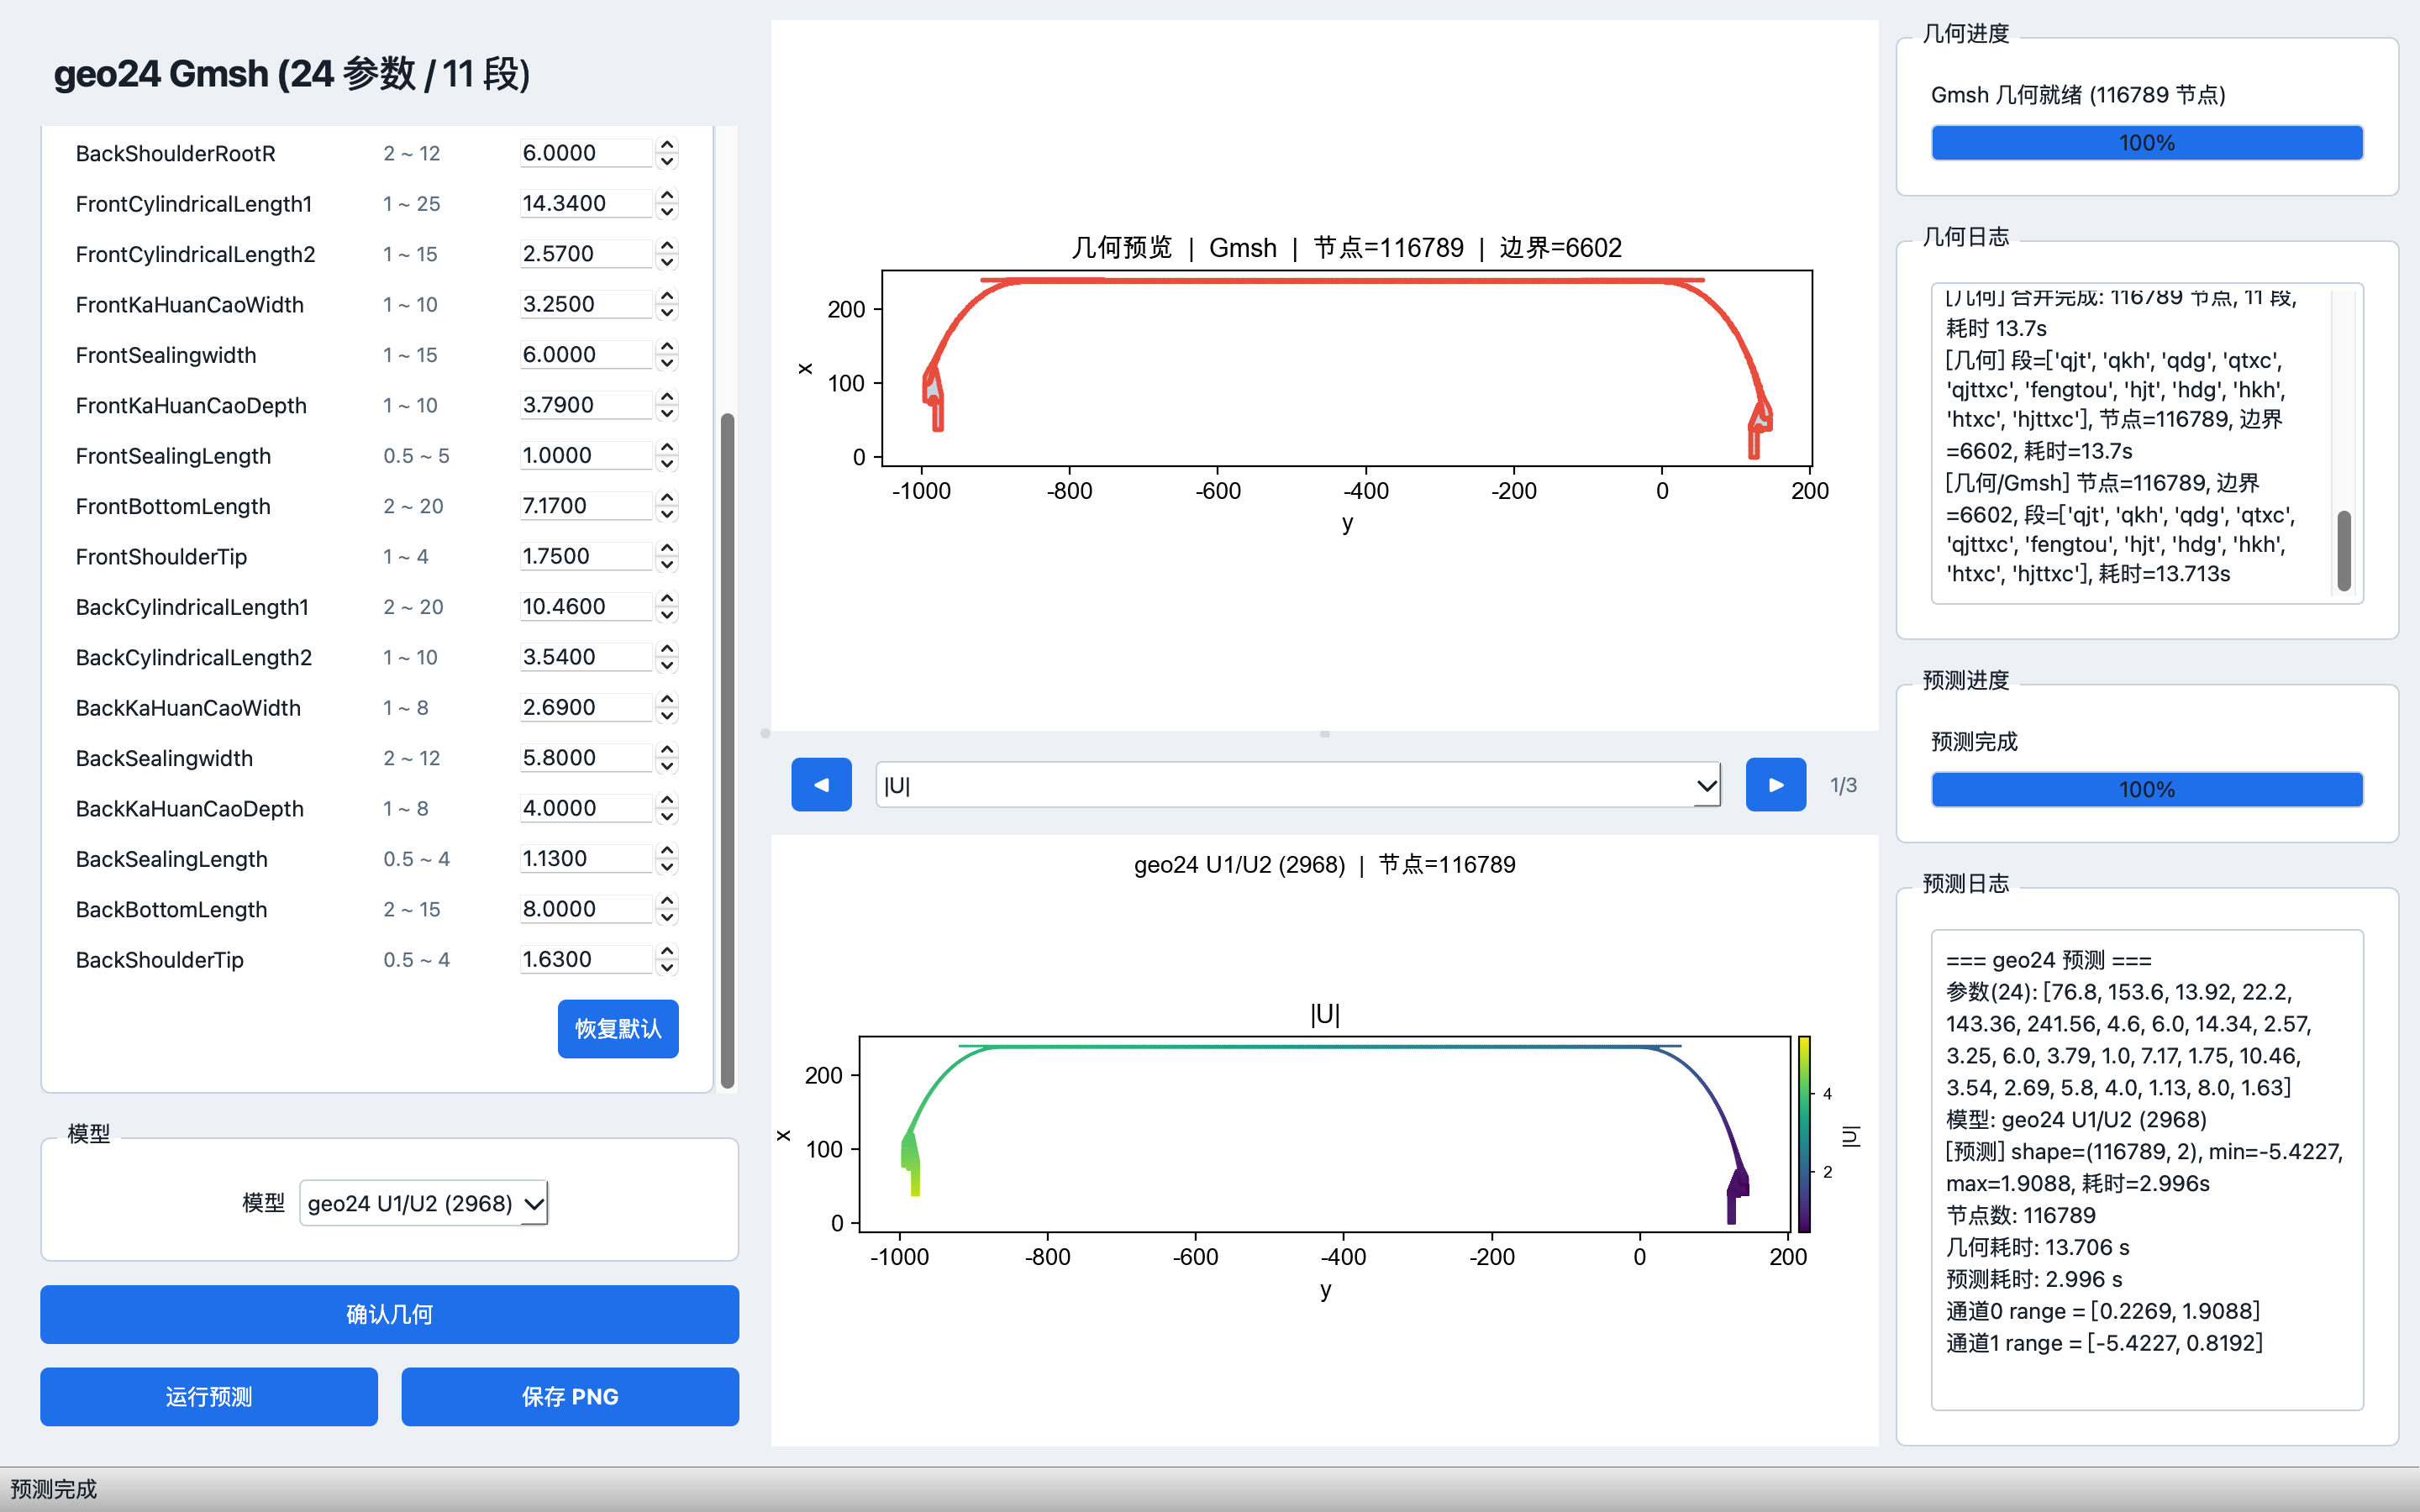
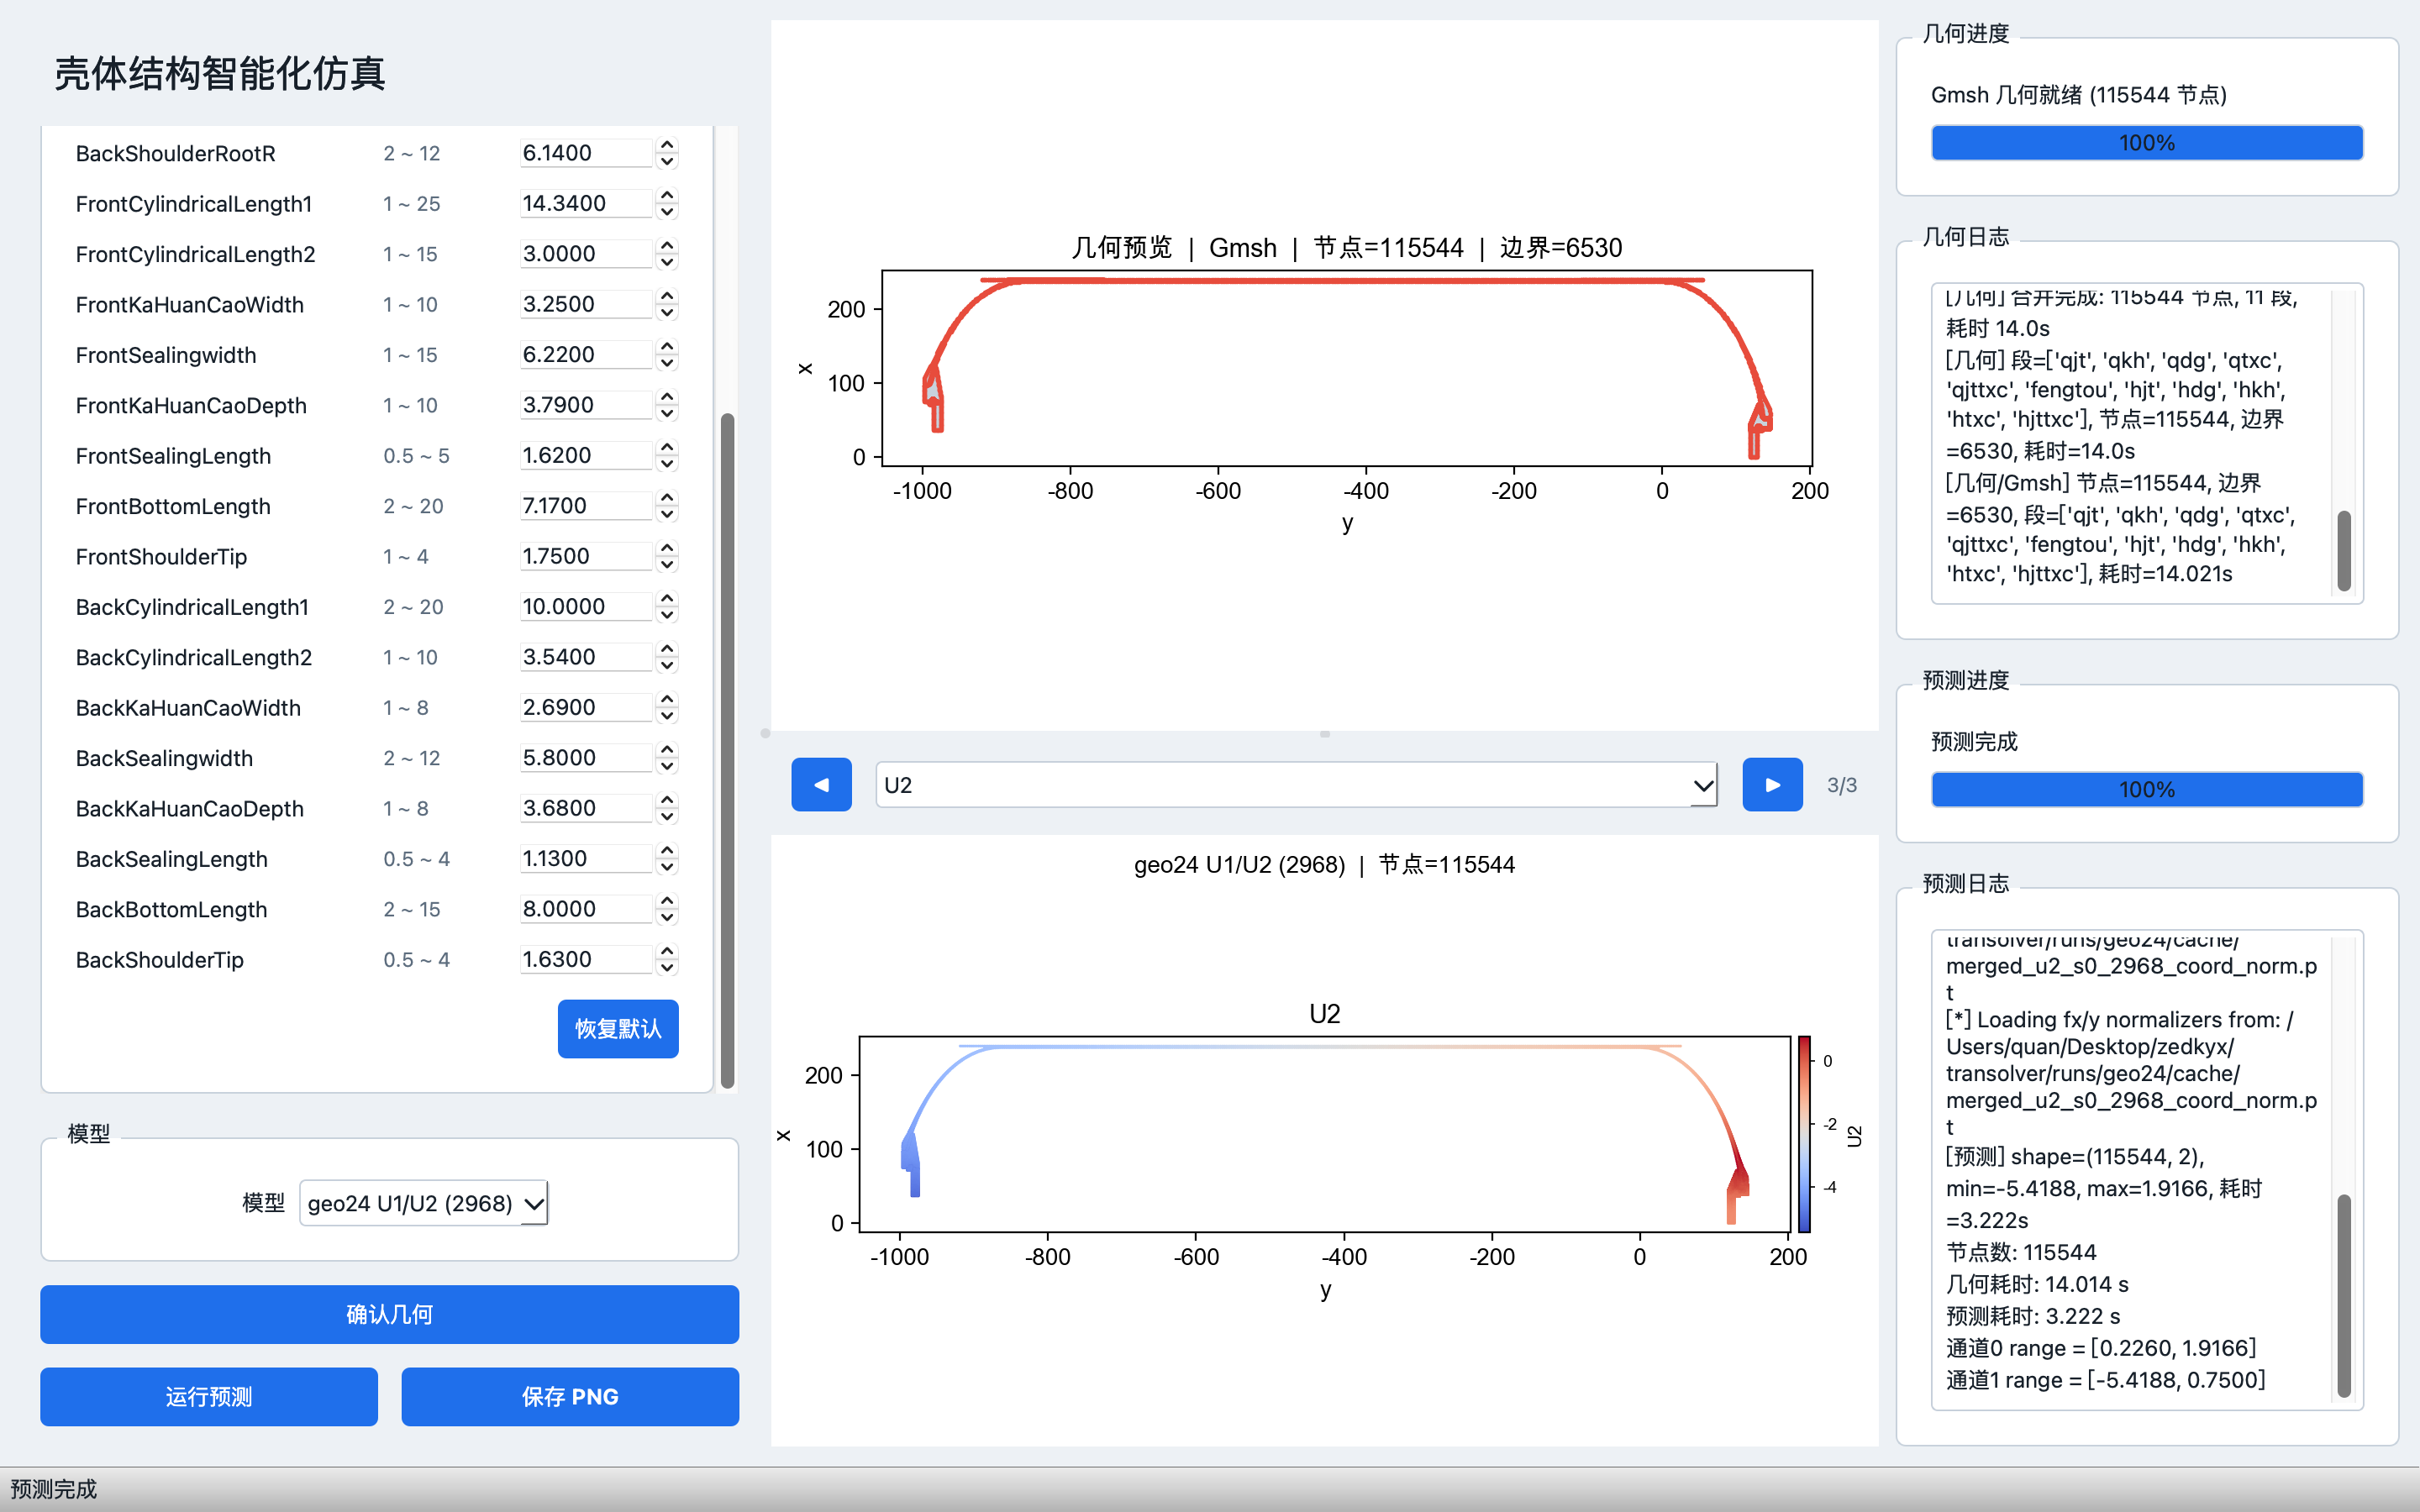
Add files via upload

diff --git a/projects/index.html b/projects/index.html
@@ -1,4 +1,4 @@
-<!DOCTYPE html><html lang="zh-CN" class="scroll-smooth"><head><meta charSet="utf-8"/><meta name="viewport" content="width=device-width, initial-scale=1"/><link rel="preload" as="image" href="/shell-joint-poster.png"/><link rel="stylesheet" href="/_next/static/css/355703b89dbe7d7e.css" data-precedence="next"/><link rel="preload" as="script" fetchPriority="low" href="/_next/static/chunks/webpack-679b75d1c4c2027c.js"/><script src="/_next/static/chunks/4bd1b696-70b6d399998de86a.js" async=""></script><script src="/_next/static/chunks/684-50096e198fb40285.js" async=""></script><script src="/_next/static/chunks/main-app-3df9396c2a6abd47.js" async=""></script><script src="/_next/static/chunks/161-c92285856b08f5b4.js" async=""></script><script src="/_next/static/chunks/874-196dbf0660d69360.js" async=""></script><script src="/_next/static/chunks/560-83a075b4e219aa9a.js" async=""></script><script src="/_next/static/chunks/app/layout-b85c94e6c56b12b9.js" async=""></script><script src="/_next/static/chunks/12-4b59b9520356f054.js" async=""></script><script src="/_next/static/chunks/748-94fdc3f79689ac04.js" async=""></script><script src="/_next/static/chunks/app/%5Bslug%5D/page-94b266f9e283fa49.js" async=""></script><link rel="icon" href="/favicon.svg" type="image/svg+xml"/><link rel="dns-prefetch" href="https://google-fonts.jialeliu.com"/><link rel="preconnect" href="https://google-fonts.jialeliu.com" crossorigin=""/><link rel="preload" as="style" href="https://google-fonts.jialeliu.com/css2?family=Inter:wght@300;400;500;600;700&amp;family=Crimson+Text:ital,wght@0,400;0,600;1,400&amp;display=swap"/><link rel="stylesheet" id="gfonts-css" href="https://google-fonts.jialeliu.com/css2?family=Inter:wght@300;400;500;600;700&amp;family=Crimson+Text:ital,wght@0,400;0,600;1,400&amp;display=swap" media="print"/><script>
+<!DOCTYPE html><html lang="zh-CN" class="scroll-smooth"><head><meta charSet="utf-8"/><meta name="viewport" content="width=device-width, initial-scale=1"/><link rel="stylesheet" href="/_next/static/css/355703b89dbe7d7e.css" data-precedence="next"/><link rel="preload" as="script" fetchPriority="low" href="/_next/static/chunks/webpack-679b75d1c4c2027c.js"/><script src="/_next/static/chunks/4bd1b696-70b6d399998de86a.js" async=""></script><script src="/_next/static/chunks/684-50096e198fb40285.js" async=""></script><script src="/_next/static/chunks/main-app-3df9396c2a6abd47.js" async=""></script><script src="/_next/static/chunks/161-c92285856b08f5b4.js" async=""></script><script src="/_next/static/chunks/874-196dbf0660d69360.js" async=""></script><script src="/_next/static/chunks/560-83a075b4e219aa9a.js" async=""></script><script src="/_next/static/chunks/app/layout-b85c94e6c56b12b9.js" async=""></script><script src="/_next/static/chunks/12-4b59b9520356f054.js" async=""></script><script src="/_next/static/chunks/748-94fdc3f79689ac04.js" async=""></script><script src="/_next/static/chunks/app/%5Bslug%5D/page-94b266f9e283fa49.js" async=""></script><link rel="icon" href="/favicon.svg" type="image/svg+xml"/><link rel="dns-prefetch" href="https://google-fonts.jialeliu.com"/><link rel="preconnect" href="https://google-fonts.jialeliu.com" crossorigin=""/><link rel="preload" as="style" href="https://google-fonts.jialeliu.com/css2?family=Inter:wght@300;400;500;600;700&amp;family=Crimson+Text:ital,wght@0,400;0,600;1,400&amp;display=swap"/><link rel="stylesheet" id="gfonts-css" href="https://google-fonts.jialeliu.com/css2?family=Inter:wght@300;400;500;600;700&amp;family=Crimson+Text:ital,wght@0,400;0,600;1,400&amp;display=swap" media="print"/><script>
               (function(){
                 var l = document.getElementById('gfonts-css');
                 if (!l) return;
@@ -21,7 +21,7 @@
                 root.classList.add('light');
                 root.setAttribute('data-theme', 'light');
               }
-            </script><title>项目 | 翟郁曦</title><meta name="description" content="研究相关的代码实现与可视化成果。"/><meta name="author" content="翟郁曦"/><meta name="keywords" content="翟郁曦,流体力学,科学机器学习,上海大学 · 力学与工程科学学院"/><meta name="creator" content="翟郁曦"/><meta name="publisher" content="翟郁曦"/><meta property="og:title" content="翟郁曦"/><meta property="og:description" content="上海大学流体力学硕士研究生，研究方向为计算流体力学与科学机器学习。"/><meta property="og:site_name" content="翟郁曦 的个人主页"/><meta property="og:locale" content="zh_CN"/><meta property="og:type" content="website"/><meta name="twitter:card" content="summary"/><meta name="twitter:title" content="翟郁曦"/><meta name="twitter:description" content="上海大学流体力学硕士研究生，研究方向为计算流体力学与科学机器学习。"/><link rel="icon" href="/favicon.svg"/><script>document.querySelectorAll('body link[rel="icon"], body link[rel="apple-touch-icon"]').forEach(el => document.head.appendChild(el))</script><script src="/_next/static/chunks/polyfills-42372ed130431b0a.js" noModule=""></script></head><body class="font-sans antialiased"><nav class="fixed top-0 left-0 right-0 z-50" data-headlessui-state=""><div class="transition-all duration-300 ease-out bg-transparent" style="transform:translateY(-100px)"><div class="max-w-7xl mx-auto px-4 sm:px-6 lg:px-8"><div class="flex justify-between items-center h-16 lg:h-20"><div class="flex-shrink-0" tabindex="0"><a class="text-xl lg:text-2xl font-serif font-semibold text-primary hover:text-accent transition-colors duration-200" href="/">翟郁曦</a></div><div class="hidden lg:block"><div class="ml-10 flex items-center space-x-8"><div class="flex items-baseline space-x-8"><a class="relative px-3 py-2 text-sm font-medium transition-all duration-200 rounded hover:bg-accent/10 hover:shadow-sm text-neutral-600 hover:text-primary" href="/"><span class="relative z-10">关于</span></a><a class="relative px-3 py-2 text-sm font-medium transition-all duration-200 rounded hover:bg-accent/10 hover:shadow-sm text-primary" href="/projects/"><span class="relative z-10">项目</span><div class="absolute inset-0 bg-accent/10 rounded-lg"></div></a><a class="relative px-3 py-2 text-sm font-medium transition-all duration-200 rounded hover:bg-accent/10 hover:shadow-sm text-neutral-600 hover:text-primary" href="/cv/"><span class="relative z-10">简历</span></a></div><div class="flex items-center justify-center w-10 h-10 rounded-lg border border-neutral-200 dark:border-[rgba(148,163,184,0.24)] bg-background dark:bg-neutral-800"><div class="w-4 h-4 rounded-full bg-neutral-300 animate-pulse"></div></div></div></div><div class="lg:hidden flex items-center space-x-2"><div class="flex items-center justify-center w-10 h-10 rounded-lg border border-neutral-200 dark:border-[rgba(148,163,184,0.24)] bg-background dark:bg-neutral-800"><div class="w-4 h-4 rounded-full bg-neutral-300 animate-pulse"></div></div><button class="inline-flex items-center justify-center p-2 rounded-md text-neutral-600 hover:text-primary hover:bg-neutral-100 dark:hover:bg-neutral-800 focus:outline-none focus:ring-2 focus:ring-inset focus:ring-accent transition-colors duration-200" id="headlessui-disclosure-button-«R5pdb»" type="button" aria-expanded="false" data-headlessui-state=""><span class="sr-only">Open main menu</span><div><svg xmlns="http://www.w3.org/2000/svg" fill="none" viewBox="0 0 24 24" stroke-width="1.5" stroke="currentColor" aria-hidden="true" data-slot="icon" class="block h-6 w-6"><path stroke-linecap="round" stroke-linejoin="round" d="M3.75 6.75h16.5M3.75 12h16.5m-16.5 5.25h16.5"></path></svg></div></button></div></div></div></div></nav><main class="min-h-screen pt-16 lg:pt-20"><div class="max-w-4xl mx-auto px-4 sm:px-6 lg:px-8 py-12"><div style="opacity:0;transform:translateY(20px)"><div class="mb-8"><h1 class="text-4xl font-serif font-bold text-primary mb-4">项目</h1><p class="text-lg text-neutral-600 dark:text-neutral-500 max-w-2xl">研究相关的代码实现与可视化成果。</p></div><div class="grid gap-6"><div class="bg-white dark:bg-neutral-900 p-6 rounded-xl shadow-sm border border-neutral-200 dark:border-neutral-800 hover:shadow-lg transition-all duration-200 hover:scale-[1.01]" style="opacity:0;transform:translateY(20px)"><div class="flex justify-between items-start mb-2"><h3 class="text-xl font-semibold text-primary">Transolver Shell-Joint (Geo-24)</h3><span class="text-sm text-neutral-500 font-medium bg-neutral-100 dark:bg-neutral-800 px-2 py-1 rounded">2025 – 至今</span></div><p class="text-base text-accent font-medium mb-3">壳体结构智能化仿真（Geo-24 · 24 参数）</p><div class="mb-4 rounded-lg overflow-hidden border border-neutral-200 dark:border-neutral-700"><p class="px-3 py-2 text-sm font-medium text-primary bg-neutral-50 dark:bg-neutral-800/50 border-b border-neutral-200 dark:border-neutral-700">仿真界面</p><img src="/shell-joint-poster.png" alt="Transolver Shell-Joint (Geo-24) 界面" class="w-full object-contain bg-white"/></div><div class="mb-4 last:mb-0"><p class="text-sm font-medium text-primary mb-2">前接头：位移 / Mises / 主应力预测</p><div class="rounded-lg overflow-hidden bg-neutral-100 dark:bg-neutral-800 border border-neutral-200 dark:border-neutral-700"><video src="/shell-joint-front.mp4" controls="" playsInline="" preload="none" class="w-full aspect-video object-contain bg-black">您的浏览器不支持视频播放。</video><p class="px-3 py-2 text-xs text-neutral-500 border-t border-neutral-200 dark:border-neutral-700">点击播放按钮开始加载。</p></div></div><div class="mb-4 last:mb-0"><p class="text-sm font-medium text-primary mb-2">壳体全部件：位移场展示</p><div class="rounded-lg overflow-hidden bg-neutral-100 dark:bg-neutral-800 border border-neutral-200 dark:border-neutral-700"><video src="/shell-assembly-demo.mp4" controls="" playsInline="" preload="none" class="w-full aspect-video object-contain bg-black">您的浏览器不支持视频播放。</video><p class="px-3 py-2 text-xs text-neutral-500 border-t border-neutral-200 dark:border-neutral-700">点击播放按钮开始加载。</p></div></div><div class="text-base text-neutral-600 dark:text-neutral-500 leading-relaxed"><p class="mb-3 last:mb-0">基于 <strong class="font-semibold text-primary">Transolver</strong> 族神经算子，面向 <strong class="font-semibold text-primary">Geo-24</strong> 轴对称壳体接头（24 参数 / 11 段）的多物理场响应预测与可视化演示。</p>
+            </script><title>项目 | 翟郁曦</title><meta name="description" content="研究相关的代码实现与可视化成果。"/><meta name="author" content="翟郁曦"/><meta name="keywords" content="翟郁曦,流体力学,科学机器学习,上海大学 · 力学与工程科学学院"/><meta name="creator" content="翟郁曦"/><meta name="publisher" content="翟郁曦"/><meta property="og:title" content="翟郁曦"/><meta property="og:description" content="上海大学流体力学硕士研究生，研究方向为计算流体力学与科学机器学习。"/><meta property="og:site_name" content="翟郁曦 的个人主页"/><meta property="og:locale" content="zh_CN"/><meta property="og:type" content="website"/><meta name="twitter:card" content="summary"/><meta name="twitter:title" content="翟郁曦"/><meta name="twitter:description" content="上海大学流体力学硕士研究生，研究方向为计算流体力学与科学机器学习。"/><link rel="icon" href="/favicon.svg"/><script>document.querySelectorAll('body link[rel="icon"], body link[rel="apple-touch-icon"]').forEach(el => document.head.appendChild(el))</script><script src="/_next/static/chunks/polyfills-42372ed130431b0a.js" noModule=""></script></head><body class="font-sans antialiased"><nav class="fixed top-0 left-0 right-0 z-50" data-headlessui-state=""><div class="transition-all duration-300 ease-out bg-transparent" style="transform:translateY(-100px)"><div class="max-w-7xl mx-auto px-4 sm:px-6 lg:px-8"><div class="flex justify-between items-center h-16 lg:h-20"><div class="flex-shrink-0" tabindex="0"><a class="text-xl lg:text-2xl font-serif font-semibold text-primary hover:text-accent transition-colors duration-200" href="/">翟郁曦</a></div><div class="hidden lg:block"><div class="ml-10 flex items-center space-x-8"><div class="flex items-baseline space-x-8"><a class="relative px-3 py-2 text-sm font-medium transition-all duration-200 rounded hover:bg-accent/10 hover:shadow-sm text-neutral-600 hover:text-primary" href="/"><span class="relative z-10">关于</span></a><a class="relative px-3 py-2 text-sm font-medium transition-all duration-200 rounded hover:bg-accent/10 hover:shadow-sm text-primary" href="/projects/"><span class="relative z-10">项目</span><div class="absolute inset-0 bg-accent/10 rounded-lg"></div></a><a class="relative px-3 py-2 text-sm font-medium transition-all duration-200 rounded hover:bg-accent/10 hover:shadow-sm text-neutral-600 hover:text-primary" href="/cv/"><span class="relative z-10">简历</span></a></div><div class="flex items-center justify-center w-10 h-10 rounded-lg border border-neutral-200 dark:border-[rgba(148,163,184,0.24)] bg-background dark:bg-neutral-800"><div class="w-4 h-4 rounded-full bg-neutral-300 animate-pulse"></div></div></div></div><div class="lg:hidden flex items-center space-x-2"><div class="flex items-center justify-center w-10 h-10 rounded-lg border border-neutral-200 dark:border-[rgba(148,163,184,0.24)] bg-background dark:bg-neutral-800"><div class="w-4 h-4 rounded-full bg-neutral-300 animate-pulse"></div></div><button class="inline-flex items-center justify-center p-2 rounded-md text-neutral-600 hover:text-primary hover:bg-neutral-100 dark:hover:bg-neutral-800 focus:outline-none focus:ring-2 focus:ring-inset focus:ring-accent transition-colors duration-200" id="headlessui-disclosure-button-«R5pdb»" type="button" aria-expanded="false" data-headlessui-state=""><span class="sr-only">Open main menu</span><div><svg xmlns="http://www.w3.org/2000/svg" fill="none" viewBox="0 0 24 24" stroke-width="1.5" stroke="currentColor" aria-hidden="true" data-slot="icon" class="block h-6 w-6"><path stroke-linecap="round" stroke-linejoin="round" d="M3.75 6.75h16.5M3.75 12h16.5m-16.5 5.25h16.5"></path></svg></div></button></div></div></div></div></nav><main class="min-h-screen pt-16 lg:pt-20"><div class="max-w-4xl mx-auto px-4 sm:px-6 lg:px-8 py-12"><div style="opacity:0;transform:translateY(20px)"><div class="mb-8"><h1 class="text-4xl font-serif font-bold text-primary mb-4">项目</h1><p class="text-lg text-neutral-600 dark:text-neutral-500 max-w-2xl">研究相关的代码实现与可视化成果。</p></div><div class="grid gap-6"><div class="bg-white dark:bg-neutral-900 p-6 rounded-xl shadow-sm border border-neutral-200 dark:border-neutral-800 hover:shadow-lg transition-all duration-200 hover:scale-[1.01]" style="opacity:0;transform:translateY(20px)"><div class="flex justify-between items-start mb-2"><h3 class="text-xl font-semibold text-primary">Transolver Shell-Joint (Geo-24)</h3><span class="text-sm text-neutral-500 font-medium bg-neutral-100 dark:bg-neutral-800 px-2 py-1 rounded">2025 – 至今</span></div><p class="text-base text-accent font-medium mb-3">壳体结构智能化仿真（Geo-24 · 24 参数）</p><div class="mb-4 last:mb-0"><p class="text-sm font-medium text-primary mb-2">前接头：位移 / Mises / 主应力预测</p><div class="rounded-lg overflow-hidden bg-neutral-100 dark:bg-neutral-800 border border-neutral-200 dark:border-neutral-700"><video src="/shell-joint-front.mp4" controls="" playsInline="" preload="none" class="w-full aspect-video object-contain bg-black">您的浏览器不支持视频播放。</video><p class="px-3 py-2 text-xs text-neutral-500 border-t border-neutral-200 dark:border-neutral-700">点击播放按钮开始加载。</p></div></div><div class="mb-4 last:mb-0"><p class="text-sm font-medium text-primary mb-2">壳体全部件：位移场展示</p><div class="rounded-lg overflow-hidden bg-neutral-100 dark:bg-neutral-800 border border-neutral-200 dark:border-neutral-700"><video src="/shell-assembly-demo.mp4" poster="/shell-joint-poster.png" controls="" playsInline="" preload="none" class="w-full aspect-video object-contain bg-black">您的浏览器不支持视频播放。</video><p class="px-3 py-2 text-xs text-neutral-500 border-t border-neutral-200 dark:border-neutral-700">点击播放按钮开始加载。</p></div></div><div class="text-base text-neutral-600 dark:text-neutral-500 leading-relaxed"><p class="mb-3 last:mb-0">基于 <strong class="font-semibold text-primary">Transolver</strong> 族神经算子，面向 <strong class="font-semibold text-primary">Geo-24</strong> 轴对称壳体接头（24 参数 / 11 段）的多物理场响应预测与可视化演示。</p>
 <p class="mb-3 last:mb-0"><strong class="font-semibold text-primary">主要工作：</strong></p>
 <ul class="list-disc list-inside mb-3 space-y-1 ml-2">
 <li>前接头区域：位移分量、Mises 应力与主应力均可快速预测</li>
@@ -29,4 +29,4 @@
 <li>结合几何参数与符号距离函数（SDF）进行几何感知编码</li>
 <li>采用分量独立输出结构（COIN）缓解多分量联合预测中的共享参数干扰</li>
 </ul>
-<p class="mb-3 last:mb-0"><strong class="font-semibold text-primary">技术栈：</strong> Python · PyTorch · Transolver · Gmsh · PyQt · 遗传算法</p></div><div class="flex flex-wrap items-center gap-2 mt-4"><span class="text-xs text-neutral-500 bg-neutral-50 dark:bg-neutral-800/50 px-2 py-1 rounded border border-neutral-100 dark:border-neutral-800">神经算子</span><span class="text-xs text-neutral-500 bg-neutral-50 dark:bg-neutral-800/50 px-2 py-1 rounded border border-neutral-100 dark:border-neutral-800">壳体结构</span><span class="text-xs text-neutral-500 bg-neutral-50 dark:bg-neutral-800/50 px-2 py-1 rounded border border-neutral-100 dark:border-neutral-800">Geo-24</span><span class="text-xs text-neutral-500 bg-neutral-50 dark:bg-neutral-800/50 px-2 py-1 rounded border border-neutral-100 dark:border-neutral-800">多物理场</span><span class="text-xs text-neutral-500 bg-neutral-50 dark:bg-neutral-800/50 px-2 py-1 rounded border border-neutral-100 dark:border-neutral-800">PyTorch</span><span class="text-xs text-neutral-500 bg-neutral-50 dark:bg-neutral-800/50 px-2 py-1 rounded border border-neutral-100 dark:border-neutral-800">Gmsh</span><a href="https://github.com/zedkyx" target="_blank" rel="noopener noreferrer" class="text-sm text-accent hover:underline ml-auto">查看代码 →</a></div></div></div></div></div><!--$--><!--/$--><!--$--><!--/$--></main><footer class="border-t border-neutral-200/50 bg-neutral-50/50 dark:bg-neutral-900/50 dark:border-neutral-700/50"><div class="max-w-6xl mx-auto px-4 sm:px-6 lg:px-8 py-6"><div class="flex flex-col sm:flex-row justify-between items-center gap-2"><p class="text-xs text-neutral-500">最后更新：<!-- -->2026年5月24日</p><p class="text-xs text-neutral-500 flex items-center"><a href="https://github.com/xyjoey/PRISM" target="_blank" rel="noopener noreferrer">Built with PRISM</a><span class="ml-2">🚀</span></p></div></div></footer><script src="/_next/static/chunks/webpack-679b75d1c4c2027c.js" async=""></script><script>(self.__next_f=self.__next_f||[]).push([0])</script><script>self.__next_f.push([1,"1:\"$Sreact.fragment\"\n2:I[3719,[\"161\",\"static/chunks/161-c92285856b08f5b4.js\",\"874\",\"static/chunks/874-196dbf0660d69360.js\",\"560\",\"static/chunks/560-83a075b4e219aa9a.js\",\"177\",\"static/chunks/app/layout-b85c94e6c56b12b9.js\"],\"ThemeProvider\"]\n3:I[768,[\"161\",\"static/chunks/161-c92285856b08f5b4.js\",\"874\",\"static/chunks/874-196dbf0660d69360.js\",\"560\",\"static/chunks/560-83a075b4e219aa9a.js\",\"177\",\"static/chunks/app/layout-b85c94e6c56b12b9.js\"],\"default\"]\n4:I[7555,[],\"\"]\n5:I[1295,[],\"\"]\n6:I[2548,[\"161\",\"static/chunks/161-c92285856b08f5b4.js\",\"874\",\"static/chunks/874-196dbf0660d69360.js\",\"560\",\"static/chunks/560-83a075b4e219aa9a.js\",\"177\",\"static/chunks/app/layout-b85c94e6c56b12b9.js\"],\"default\"]\n8:I[9665,[],\"MetadataBoundary\"]\na:I[9665,[],\"OutletBoundary\"]\nd:I[4911,[],\"AsyncMetadataOutlet\"]\nf:I[9665,[],\"ViewportBoundary\"]\n11:I[6614,[],\"\"]\n:HL[\"/_next/static/css/355703b89dbe7d7e.css\",\"style\"]\n"])</script><script>self.__next_f.push([1,"0:{\"P\":null,\"b\":\"0G9Z8S2RZDbcJ6NtpnWvJ\",\"p\":\"\",\"c\":[\"\",\"projects\",\"\"],\"i\":false,\"f\":[[[\"\",{\"children\":[[\"slug\",\"projects\",\"d\"],{\"children\":[\"__PAGE__\",{}]}]},\"$undefined\",\"$undefined\",true],[\"\",[\"$\",\"$1\",\"c\",{\"children\":[[[\"$\",\"link\",\"0\",{\"rel\":\"stylesheet\",\"href\":\"/_next/static/css/355703b89dbe7d7e.css\",\"precedence\":\"next\",\"crossOrigin\":\"$undefined\",\"nonce\":\"$undefined\"}]],[\"$\",\"html\",null,{\"lang\":\"zh-CN\",\"className\":\"scroll-smooth\",\"suppressHydrationWarning\":true,\"children\":[[\"$\",\"head\",null,{\"children\":[[\"$\",\"link\",null,{\"rel\":\"icon\",\"href\":\"/favicon.svg\",\"type\":\"image/svg+xml\"}],[\"$\",\"link\",null,{\"rel\":\"dns-prefetch\",\"href\":\"https://google-fonts.jialeliu.com\"}],[\"$\",\"link\",null,{\"rel\":\"preconnect\",\"href\":\"https://google-fonts.jialeliu.com\",\"crossOrigin\":\"\"}],[\"$\",\"link\",null,{\"rel\":\"preload\",\"as\":\"style\",\"href\":\"https://google-fonts.jialeliu.com/css2?family=Inter:wght@300;400;500;600;700\u0026family=Crimson+Text:ital,wght@0,400;0,600;1,400\u0026display=swap\"}],[\"$\",\"link\",null,{\"rel\":\"stylesheet\",\"id\":\"gfonts-css\",\"href\":\"https://google-fonts.jialeliu.com/css2?family=Inter:wght@300;400;500;600;700\u0026family=Crimson+Text:ital,wght@0,400;0,600;1,400\u0026display=swap\",\"media\":\"print\"}],[\"$\",\"script\",null,{\"dangerouslySetInnerHTML\":{\"__html\":\"\\n              (function(){\\n                var l = document.getElementById('gfonts-css');\\n                if (!l) return;\\n                if (l.media !== 'all') {\\n                  l.addEventListener('load', function(){ try { l.media = 'all'; } catch(e){} });\\n                }\\n              })();\\n            \"}}],[\"$\",\"noscript\",null,{\"children\":[\"$\",\"link\",null,{\"rel\":\"stylesheet\",\"href\":\"https://google-fonts.jialeliu.com/css2?family=Inter:wght@300;400;500;600;700\u0026family=Crimson+Text:ital,wght@0,400;0,600;1,400\u0026display=swap\"}]}],[\"$\",\"script\",null,{\"dangerouslySetInnerHTML\":{\"__html\":\"\\n              try {\\n                const theme = localStorage.getItem('theme-storage');\\n                const parsed = theme ? JSON.parse(theme) : null;\\n                const setting = parsed?.state?.theme || 'system';\\n                const prefersDark = typeof window !== 'undefined' \u0026\u0026 window.matchMedia \u0026\u0026 window.matchMedia('(prefers-color-scheme: dark)').matches;\\n                const effective = setting === 'dark' ? 'dark' : (setting === 'light' ? 'light' : (prefersDark ? 'dark' : 'light'));\\n                var root = document.documentElement;\\n                root.classList.add(effective);\\n                root.setAttribute('data-theme', effective);\\n              } catch (e) {\\n                var root = document.documentElement;\\n                root.classList.add('light');\\n                root.setAttribute('data-theme', 'light');\\n              }\\n            \"}}]]}],[\"$\",\"body\",null,{\"className\":\"font-sans antialiased\",\"children\":[\"$\",\"$L2\",null,{\"children\":[[\"$\",\"$L3\",null,{\"items\":[{\"title\":\"关于\",\"type\":\"page\",\"target\":\"about\",\"href\":\"/\"},{\"title\":\"项目\",\"type\":\"page\",\"target\":\"projects\",\"href\":\"/projects\"},{\"title\":\"简历\",\"type\":\"page\",\"target\":\"cv\",\"href\":\"/cv\"}],\"siteTitle\":\"翟郁曦\",\"enableOnePageMode\":false}],[\"$\",\"main\",null,{\"className\":\"min-h-screen pt-16 lg:pt-20\",\"children\":[\"$\",\"$L4\",null,{\"parallelRouterKey\":\"children\",\"error\":\"$undefined\",\"errorStyles\":\"$undefined\",\"errorScripts\":\"$undefined\",\"template\":[\"$\",\"$L5\",null,{}],\"templateStyles\":\"$undefined\",\"templateScripts\":\"$undefined\",\"notFound\":[[[\"$\",\"title\",null,{\"children\":\"404: This page could not be found.\"}],[\"$\",\"div\",null,{\"style\":{\"fontFamily\":\"system-ui,\\\"Segoe UI\\\",Roboto,Helvetica,Arial,sans-serif,\\\"Apple Color Emoji\\\",\\\"Segoe UI Emoji\\\"\",\"height\":\"100vh\",\"textAlign\":\"center\",\"display\":\"flex\",\"flexDirection\":\"column\",\"alignItems\":\"center\",\"justifyContent\":\"center\"},\"children\":[\"$\",\"div\",null,{\"children\":[[\"$\",\"style\",null,{\"dangerouslySetInnerHTML\":{\"__html\":\"body{color:#000;background:#fff;margin:0}.next-error-h1{border-right:1px solid rgba(0,0,0,.3)}@media (prefers-color-scheme:dark){body{color:#fff;background:#000}.next-error-h1{border-right:1px solid rgba(255,255,255,.3)}}\"}}],[\"$\",\"h1\",null,{\"className\":\"next-error-h1\",\"style\":{\"display\":\"inline-block\",\"margin\":\"0 20px 0 0\",\"padding\":\"0 23px 0 0\",\"fontSize\":24,\"fontWeight\":500,\"verticalAlign\":\"top\",\"lineHeight\":\"49px\"},\"children\":404}],[\"$\",\"div\",null,{\"style\":{\"display\":\"inline-block\"},\"children\":[\"$\",\"h2\",null,{\"style\":{\"fontSize\":14,\"fontWeight\":400,\"lineHeight\":\"49px\",\"margin\":0},\"children\":\"This page could not be found.\"}]}]]}]}]],[]],\"forbidden\":\"$undefined\",\"unauthorized\":\"$undefined\"}]}],[\"$\",\"$L6\",null,{\"lastUpdated\":\"2026年5月24日\"}]]}]}]]}]]}],{\"children\":[[\"slug\",\"projects\",\"d\"],[\"$\",\"$1\",\"c\",{\"children\":[null,[\"$\",\"$L4\",null,{\"parallelRouterKey\":\"children\",\"error\":\"$undefined\",\"errorStyles\":\"$undefined\",\"errorScripts\":\"$undefined\",\"template\":[\"$\",\"$L5\",null,{}],\"templateStyles\":\"$undefined\",\"templateScripts\":\"$undefined\",\"notFound\":\"$undefined\",\"forbidden\":\"$undefined\",\"unauthorized\":\"$undefined\"}]]}],{\"children\":[\"__PAGE__\",[\"$\",\"$1\",\"c\",{\"children\":[\"$L7\",[\"$\",\"$L8\",null,{\"children\":\"$L9\"}],null,[\"$\",\"$La\",null,{\"children\":[\"$Lb\",\"$Lc\",[\"$\",\"$Ld\",null,{\"promise\":\"$@e\"}]]}]]}],{},null,false]},null,false]},null,false],[\"$\",\"$1\",\"h\",{\"children\":[null,[\"$\",\"$1\",\"bx0s2lPbUh661cfmpYj1v\",{\"children\":[[\"$\",\"$Lf\",null,{\"children\":\"$L10\"}],null]}],null]}],false]],\"m\":\"$undefined\",\"G\":[\"$11\",\"$undefined\"],\"s\":false,\"S\":true}\n"])</script><script>self.__next_f.push([1,"12:\"$Sreact.suspense\"\n13:I[4911,[],\"AsyncMetadata\"]\n15:I[3684,[\"161\",\"static/chunks/161-c92285856b08f5b4.js\",\"12\",\"static/chunks/12-4b59b9520356f054.js\",\"748\",\"static/chunks/748-94fdc3f79689ac04.js\",\"182\",\"static/chunks/app/%5Bslug%5D/page-94b266f9e283fa49.js\"],\"default\"]\n9:[\"$\",\"$12\",null,{\"fallback\":null,\"children\":[\"$\",\"$L13\",null,{\"promise\":\"$@14\"}]}]\n7:[\"$\",\"div\",null,{\"className\":\"max-w-4xl mx-auto px-4 sm:px-6 lg:px-8 py-12\",\"children\":[false,false,[\"$\",\"$L15\",null,{\"config\":{\"type\":\"card\",\"title\":\"项目\",\"description\":\"研究相关的代码实现与可视化成果。\",\"items\":[{\"title\":\"Transolver Shell-Joint (Geo-24)\",\"subtitle\":\"壳体结构智能化仿真（Geo-24 · 24 参数）\",\"date\":\"2025 – 至今\",\"image\":\"/shell-joint-poster.png\",\"content\":\"基于 **Transolver** 族神经算子，面向 **Geo-24** 轴对称壳体接头（24 参数 / 11 段）的多物理场响应预测与可视化演示。\\n\\n**主要工作：**\\n- 前接头区域：位移分量、Mises 应力与主应力均可快速预测\\n- 壳体全部件：整体位移场效果展示与交互可视化\\n- 结合几何参数与符号距离函数（SDF）进行几何感知编码\\n- 采用分量独立输出结构（COIN）缓解多分量联合预测中的共享参数干扰\\n\\n**技术栈：** Python · PyTorch · Transolver · Gmsh · PyQt · 遗传算法\\n\",\"tags\":[\"神经算子\",\"壳体结构\",\"Geo-24\",\"多物理场\",\"PyTorch\",\"Gmsh\"],\"link\":\"https://github.com/zedkyx\",\"videos\":[{\"title\":\"前接头：位移 / Mises / 主应力预测\",\"src\":\"/shell-joint-front.mp4\"},{\"title\":\"壳体全部件：位移场展示\",\"src\":\"/shell-assembly-demo.mp4\"}]}]}}],false]}]\n"])</script><script>self.__next_f.push([1,"c:null\n"])</script><script>self.__next_f.push([1,"10:[[\"$\",\"meta\",\"0\",{\"charSet\":\"utf-8\"}],[\"$\",\"meta\",\"1\",{\"name\":\"viewport\",\"content\":\"width=device-width, initial-scale=1\"}]]\nb:null\n"])</script><script>self.__next_f.push([1,"14:{\"metadata\":[[\"$\",\"title\",\"0\",{\"children\":\"项目 | 翟郁曦\"}],[\"$\",\"meta\",\"1\",{\"name\":\"description\",\"content\":\"研究相关的代码实现与可视化成果。\"}],[\"$\",\"meta\",\"2\",{\"name\":\"author\",\"content\":\"翟郁曦\"}],[\"$\",\"meta\",\"3\",{\"name\":\"keywords\",\"content\":\"翟郁曦,流体力学,科学机器学习,上海大学 · 力学与工程科学学院\"}],[\"$\",\"meta\",\"4\",{\"name\":\"creator\",\"content\":\"翟郁曦\"}],[\"$\",\"meta\",\"5\",{\"name\":\"publisher\",\"content\":\"翟郁曦\"}],[\"$\",\"meta\",\"6\",{\"property\":\"og:title\",\"content\":\"翟郁曦\"}],[\"$\",\"meta\",\"7\",{\"property\":\"og:description\",\"content\":\"上海大学流体力学硕士研究生，研究方向为计算流体力学与科学机器学习。\"}],[\"$\",\"meta\",\"8\",{\"property\":\"og:site_name\",\"content\":\"翟郁曦 的个人主页\"}],[\"$\",\"meta\",\"9\",{\"property\":\"og:locale\",\"content\":\"zh_CN\"}],[\"$\",\"meta\",\"10\",{\"property\":\"og:type\",\"content\":\"website\"}],[\"$\",\"meta\",\"11\",{\"name\":\"twitter:card\",\"content\":\"summary\"}],[\"$\",\"meta\",\"12\",{\"name\":\"twitter:title\",\"content\":\"翟郁曦\"}],[\"$\",\"meta\",\"13\",{\"name\":\"twitter:description\",\"content\":\"上海大学流体力学硕士研究生，研究方向为计算流体力学与科学机器学习。\"}],[\"$\",\"link\",\"14\",{\"rel\":\"icon\",\"href\":\"/favicon.svg\"}]],\"error\":null,\"digest\":\"$undefined\"}\ne:{\"metadata\":\"$14:metadata\",\"error\":null,\"digest\":\"$undefined\"}\n"])</script></body></html>
+<p class="mb-3 last:mb-0"><strong class="font-semibold text-primary">技术栈：</strong> Python · PyTorch · Transolver · Gmsh · PyQt · 遗传算法</p></div><div class="flex flex-wrap items-center gap-2 mt-4"><span class="text-xs text-neutral-500 bg-neutral-50 dark:bg-neutral-800/50 px-2 py-1 rounded border border-neutral-100 dark:border-neutral-800">神经算子</span><span class="text-xs text-neutral-500 bg-neutral-50 dark:bg-neutral-800/50 px-2 py-1 rounded border border-neutral-100 dark:border-neutral-800">壳体结构</span><span class="text-xs text-neutral-500 bg-neutral-50 dark:bg-neutral-800/50 px-2 py-1 rounded border border-neutral-100 dark:border-neutral-800">Geo-24</span><span class="text-xs text-neutral-500 bg-neutral-50 dark:bg-neutral-800/50 px-2 py-1 rounded border border-neutral-100 dark:border-neutral-800">多物理场</span><span class="text-xs text-neutral-500 bg-neutral-50 dark:bg-neutral-800/50 px-2 py-1 rounded border border-neutral-100 dark:border-neutral-800">PyTorch</span><span class="text-xs text-neutral-500 bg-neutral-50 dark:bg-neutral-800/50 px-2 py-1 rounded border border-neutral-100 dark:border-neutral-800">Gmsh</span><a href="https://github.com/zedkyx" target="_blank" rel="noopener noreferrer" class="text-sm text-accent hover:underline ml-auto">查看代码 →</a></div></div></div></div></div><!--$--><!--/$--><!--$--><!--/$--></main><footer class="border-t border-neutral-200/50 bg-neutral-50/50 dark:bg-neutral-900/50 dark:border-neutral-700/50"><div class="max-w-6xl mx-auto px-4 sm:px-6 lg:px-8 py-6"><div class="flex flex-col sm:flex-row justify-between items-center gap-2"><p class="text-xs text-neutral-500">最后更新：<!-- -->2026年5月24日</p><p class="text-xs text-neutral-500 flex items-center"><a href="https://github.com/xyjoey/PRISM" target="_blank" rel="noopener noreferrer">Built with PRISM</a><span class="ml-2">🚀</span></p></div></div></footer><script src="/_next/static/chunks/webpack-679b75d1c4c2027c.js" async=""></script><script>(self.__next_f=self.__next_f||[]).push([0])</script><script>self.__next_f.push([1,"1:\"$Sreact.fragment\"\n2:I[3719,[\"161\",\"static/chunks/161-c92285856b08f5b4.js\",\"874\",\"static/chunks/874-196dbf0660d69360.js\",\"560\",\"static/chunks/560-83a075b4e219aa9a.js\",\"177\",\"static/chunks/app/layout-b85c94e6c56b12b9.js\"],\"ThemeProvider\"]\n3:I[768,[\"161\",\"static/chunks/161-c92285856b08f5b4.js\",\"874\",\"static/chunks/874-196dbf0660d69360.js\",\"560\",\"static/chunks/560-83a075b4e219aa9a.js\",\"177\",\"static/chunks/app/layout-b85c94e6c56b12b9.js\"],\"default\"]\n4:I[7555,[],\"\"]\n5:I[1295,[],\"\"]\n6:I[2548,[\"161\",\"static/chunks/161-c92285856b08f5b4.js\",\"874\",\"static/chunks/874-196dbf0660d69360.js\",\"560\",\"static/chunks/560-83a075b4e219aa9a.js\",\"177\",\"static/chunks/app/layout-b85c94e6c56b12b9.js\"],\"default\"]\n8:I[9665,[],\"MetadataBoundary\"]\na:I[9665,[],\"OutletBoundary\"]\nd:I[4911,[],\"AsyncMetadataOutlet\"]\nf:I[9665,[],\"ViewportBoundary\"]\n11:I[6614,[],\"\"]\n:HL[\"/_next/static/css/355703b89dbe7d7e.css\",\"style\"]\n"])</script><script>self.__next_f.push([1,"0:{\"P\":null,\"b\":\"rG0C4yhnVx7Zxyl84E6hC\",\"p\":\"\",\"c\":[\"\",\"projects\",\"\"],\"i\":false,\"f\":[[[\"\",{\"children\":[[\"slug\",\"projects\",\"d\"],{\"children\":[\"__PAGE__\",{}]}]},\"$undefined\",\"$undefined\",true],[\"\",[\"$\",\"$1\",\"c\",{\"children\":[[[\"$\",\"link\",\"0\",{\"rel\":\"stylesheet\",\"href\":\"/_next/static/css/355703b89dbe7d7e.css\",\"precedence\":\"next\",\"crossOrigin\":\"$undefined\",\"nonce\":\"$undefined\"}]],[\"$\",\"html\",null,{\"lang\":\"zh-CN\",\"className\":\"scroll-smooth\",\"suppressHydrationWarning\":true,\"children\":[[\"$\",\"head\",null,{\"children\":[[\"$\",\"link\",null,{\"rel\":\"icon\",\"href\":\"/favicon.svg\",\"type\":\"image/svg+xml\"}],[\"$\",\"link\",null,{\"rel\":\"dns-prefetch\",\"href\":\"https://google-fonts.jialeliu.com\"}],[\"$\",\"link\",null,{\"rel\":\"preconnect\",\"href\":\"https://google-fonts.jialeliu.com\",\"crossOrigin\":\"\"}],[\"$\",\"link\",null,{\"rel\":\"preload\",\"as\":\"style\",\"href\":\"https://google-fonts.jialeliu.com/css2?family=Inter:wght@300;400;500;600;700\u0026family=Crimson+Text:ital,wght@0,400;0,600;1,400\u0026display=swap\"}],[\"$\",\"link\",null,{\"rel\":\"stylesheet\",\"id\":\"gfonts-css\",\"href\":\"https://google-fonts.jialeliu.com/css2?family=Inter:wght@300;400;500;600;700\u0026family=Crimson+Text:ital,wght@0,400;0,600;1,400\u0026display=swap\",\"media\":\"print\"}],[\"$\",\"script\",null,{\"dangerouslySetInnerHTML\":{\"__html\":\"\\n              (function(){\\n                var l = document.getElementById('gfonts-css');\\n                if (!l) return;\\n                if (l.media !== 'all') {\\n                  l.addEventListener('load', function(){ try { l.media = 'all'; } catch(e){} });\\n                }\\n              })();\\n            \"}}],[\"$\",\"noscript\",null,{\"children\":[\"$\",\"link\",null,{\"rel\":\"stylesheet\",\"href\":\"https://google-fonts.jialeliu.com/css2?family=Inter:wght@300;400;500;600;700\u0026family=Crimson+Text:ital,wght@0,400;0,600;1,400\u0026display=swap\"}]}],[\"$\",\"script\",null,{\"dangerouslySetInnerHTML\":{\"__html\":\"\\n              try {\\n                const theme = localStorage.getItem('theme-storage');\\n                const parsed = theme ? JSON.parse(theme) : null;\\n                const setting = parsed?.state?.theme || 'system';\\n                const prefersDark = typeof window !== 'undefined' \u0026\u0026 window.matchMedia \u0026\u0026 window.matchMedia('(prefers-color-scheme: dark)').matches;\\n                const effective = setting === 'dark' ? 'dark' : (setting === 'light' ? 'light' : (prefersDark ? 'dark' : 'light'));\\n                var root = document.documentElement;\\n                root.classList.add(effective);\\n                root.setAttribute('data-theme', effective);\\n              } catch (e) {\\n                var root = document.documentElement;\\n                root.classList.add('light');\\n                root.setAttribute('data-theme', 'light');\\n              }\\n            \"}}]]}],[\"$\",\"body\",null,{\"className\":\"font-sans antialiased\",\"children\":[\"$\",\"$L2\",null,{\"children\":[[\"$\",\"$L3\",null,{\"items\":[{\"title\":\"关于\",\"type\":\"page\",\"target\":\"about\",\"href\":\"/\"},{\"title\":\"项目\",\"type\":\"page\",\"target\":\"projects\",\"href\":\"/projects\"},{\"title\":\"简历\",\"type\":\"page\",\"target\":\"cv\",\"href\":\"/cv\"}],\"siteTitle\":\"翟郁曦\",\"enableOnePageMode\":false}],[\"$\",\"main\",null,{\"className\":\"min-h-screen pt-16 lg:pt-20\",\"children\":[\"$\",\"$L4\",null,{\"parallelRouterKey\":\"children\",\"error\":\"$undefined\",\"errorStyles\":\"$undefined\",\"errorScripts\":\"$undefined\",\"template\":[\"$\",\"$L5\",null,{}],\"templateStyles\":\"$undefined\",\"templateScripts\":\"$undefined\",\"notFound\":[[[\"$\",\"title\",null,{\"children\":\"404: This page could not be found.\"}],[\"$\",\"div\",null,{\"style\":{\"fontFamily\":\"system-ui,\\\"Segoe UI\\\",Roboto,Helvetica,Arial,sans-serif,\\\"Apple Color Emoji\\\",\\\"Segoe UI Emoji\\\"\",\"height\":\"100vh\",\"textAlign\":\"center\",\"display\":\"flex\",\"flexDirection\":\"column\",\"alignItems\":\"center\",\"justifyContent\":\"center\"},\"children\":[\"$\",\"div\",null,{\"children\":[[\"$\",\"style\",null,{\"dangerouslySetInnerHTML\":{\"__html\":\"body{color:#000;background:#fff;margin:0}.next-error-h1{border-right:1px solid rgba(0,0,0,.3)}@media (prefers-color-scheme:dark){body{color:#fff;background:#000}.next-error-h1{border-right:1px solid rgba(255,255,255,.3)}}\"}}],[\"$\",\"h1\",null,{\"className\":\"next-error-h1\",\"style\":{\"display\":\"inline-block\",\"margin\":\"0 20px 0 0\",\"padding\":\"0 23px 0 0\",\"fontSize\":24,\"fontWeight\":500,\"verticalAlign\":\"top\",\"lineHeight\":\"49px\"},\"children\":404}],[\"$\",\"div\",null,{\"style\":{\"display\":\"inline-block\"},\"children\":[\"$\",\"h2\",null,{\"style\":{\"fontSize\":14,\"fontWeight\":400,\"lineHeight\":\"49px\",\"margin\":0},\"children\":\"This page could not be found.\"}]}]]}]}]],[]],\"forbidden\":\"$undefined\",\"unauthorized\":\"$undefined\"}]}],[\"$\",\"$L6\",null,{\"lastUpdated\":\"2026年5月24日\"}]]}]}]]}]]}],{\"children\":[[\"slug\",\"projects\",\"d\"],[\"$\",\"$1\",\"c\",{\"children\":[null,[\"$\",\"$L4\",null,{\"parallelRouterKey\":\"children\",\"error\":\"$undefined\",\"errorStyles\":\"$undefined\",\"errorScripts\":\"$undefined\",\"template\":[\"$\",\"$L5\",null,{}],\"templateStyles\":\"$undefined\",\"templateScripts\":\"$undefined\",\"notFound\":\"$undefined\",\"forbidden\":\"$undefined\",\"unauthorized\":\"$undefined\"}]]}],{\"children\":[\"__PAGE__\",[\"$\",\"$1\",\"c\",{\"children\":[\"$L7\",[\"$\",\"$L8\",null,{\"children\":\"$L9\"}],null,[\"$\",\"$La\",null,{\"children\":[\"$Lb\",\"$Lc\",[\"$\",\"$Ld\",null,{\"promise\":\"$@e\"}]]}]]}],{},null,false]},null,false]},null,false],[\"$\",\"$1\",\"h\",{\"children\":[null,[\"$\",\"$1\",\"s7IKdpzVN7KSZQOxJYCTb\",{\"children\":[[\"$\",\"$Lf\",null,{\"children\":\"$L10\"}],null]}],null]}],false]],\"m\":\"$undefined\",\"G\":[\"$11\",\"$undefined\"],\"s\":false,\"S\":true}\n"])</script><script>self.__next_f.push([1,"12:\"$Sreact.suspense\"\n13:I[4911,[],\"AsyncMetadata\"]\n15:I[3684,[\"161\",\"static/chunks/161-c92285856b08f5b4.js\",\"12\",\"static/chunks/12-4b59b9520356f054.js\",\"748\",\"static/chunks/748-94fdc3f79689ac04.js\",\"182\",\"static/chunks/app/%5Bslug%5D/page-94b266f9e283fa49.js\"],\"default\"]\n9:[\"$\",\"$12\",null,{\"fallback\":null,\"children\":[\"$\",\"$L13\",null,{\"promise\":\"$@14\"}]}]\n7:[\"$\",\"div\",null,{\"className\":\"max-w-4xl mx-auto px-4 sm:px-6 lg:px-8 py-12\",\"children\":[false,false,[\"$\",\"$L15\",null,{\"config\":{\"type\":\"card\",\"title\":\"项目\",\"description\":\"研究相关的代码实现与可视化成果。\",\"items\":[{\"title\":\"Transolver Shell-Joint (Geo-24)\",\"subtitle\":\"壳体结构智能化仿真（Geo-24 · 24 参数）\",\"date\":\"2025 – 至今\",\"content\":\"基于 **Transolver** 族神经算子，面向 **Geo-24** 轴对称壳体接头（24 参数 / 11 段）的多物理场响应预测与可视化演示。\\n\\n**主要工作：**\\n- 前接头区域：位移分量、Mises 应力与主应力均可快速预测\\n- 壳体全部件：整体位移场效果展示与交互可视化\\n- 结合几何参数与符号距离函数（SDF）进行几何感知编码\\n- 采用分量独立输出结构（COIN）缓解多分量联合预测中的共享参数干扰\\n\\n**技术栈：** Python · PyTorch · Transolver · Gmsh · PyQt · 遗传算法\\n\",\"tags\":[\"神经算子\",\"壳体结构\",\"Geo-24\",\"多物理场\",\"PyTorch\",\"Gmsh\"],\"link\":\"https://github.com/zedkyx\",\"videos\":[{\"title\":\"前接头：位移 / Mises / 主应力预测\",\"src\":\"/shell-joint-front.mp4\"},{\"title\":\"壳体全部件：位移场展示\",\"src\":\"/shell-assembly-demo.mp4\",\"poster\":\"/shell-joint-poster.png\"}]}]}}],false]}]\n"])</script><script>self.__next_f.push([1,"c:null\n"])</script><script>self.__next_f.push([1,"10:[[\"$\",\"meta\",\"0\",{\"charSet\":\"utf-8\"}],[\"$\",\"meta\",\"1\",{\"name\":\"viewport\",\"content\":\"width=device-width, initial-scale=1\"}]]\nb:null\n"])</script><script>self.__next_f.push([1,"14:{\"metadata\":[[\"$\",\"title\",\"0\",{\"children\":\"项目 | 翟郁曦\"}],[\"$\",\"meta\",\"1\",{\"name\":\"description\",\"content\":\"研究相关的代码实现与可视化成果。\"}],[\"$\",\"meta\",\"2\",{\"name\":\"author\",\"content\":\"翟郁曦\"}],[\"$\",\"meta\",\"3\",{\"name\":\"keywords\",\"content\":\"翟郁曦,流体力学,科学机器学习,上海大学 · 力学与工程科学学院\"}],[\"$\",\"meta\",\"4\",{\"name\":\"creator\",\"content\":\"翟郁曦\"}],[\"$\",\"meta\",\"5\",{\"name\":\"publisher\",\"content\":\"翟郁曦\"}],[\"$\",\"meta\",\"6\",{\"property\":\"og:title\",\"content\":\"翟郁曦\"}],[\"$\",\"meta\",\"7\",{\"property\":\"og:description\",\"content\":\"上海大学流体力学硕士研究生，研究方向为计算流体力学与科学机器学习。\"}],[\"$\",\"meta\",\"8\",{\"property\":\"og:site_name\",\"content\":\"翟郁曦 的个人主页\"}],[\"$\",\"meta\",\"9\",{\"property\":\"og:locale\",\"content\":\"zh_CN\"}],[\"$\",\"meta\",\"10\",{\"property\":\"og:type\",\"content\":\"website\"}],[\"$\",\"meta\",\"11\",{\"name\":\"twitter:card\",\"content\":\"summary\"}],[\"$\",\"meta\",\"12\",{\"name\":\"twitter:title\",\"content\":\"翟郁曦\"}],[\"$\",\"meta\",\"13\",{\"name\":\"twitter:description\",\"content\":\"上海大学流体力学硕士研究生，研究方向为计算流体力学与科学机器学习。\"}],[\"$\",\"link\",\"14\",{\"rel\":\"icon\",\"href\":\"/favicon.svg\"}]],\"error\":null,\"digest\":\"$undefined\"}\ne:{\"metadata\":\"$14:metadata\",\"error\":null,\"digest\":\"$undefined\"}\n"])</script></body></html>

diff --git a/_next/static/rG0C4yhnVx7Zxyl84E6hC/_buildManifest.js b/_next/static/rG0C4yhnVx7Zxyl84E6hC/_buildManifest.js
@@ -1,0 +1,1 @@
+self.__BUILD_MANIFEST=function(e,r,t){return{__rewrites:{afterFiles:[],beforeFiles:[],fallback:[]},__routerFilterStatic:{numItems:2,errorRate:1e-4,numBits:39,numHashes:14,bitArray:[0,1,1,0,r,e,e,r,r,e,e,r,e,e,e,r,r,e,e,e,e,r,e,r,r,r,r,e,e,e,r,e,r,e,r,e,e,e,r]},__routerFilterDynamic:{numItems:r,errorRate:1e-4,numBits:r,numHashes:NaN,bitArray:[]},"/_error":["static/chunks/pages/_error-cc3f077a18ea1793.js"],sortedPages:["/_app","/_error"]}}(1,0,1e-4),self.__BUILD_MANIFEST_CB&&self.__BUILD_MANIFEST_CB();

diff --git a/_next/static/rG0C4yhnVx7Zxyl84E6hC/_ssgManifest.js b/_next/static/rG0C4yhnVx7Zxyl84E6hC/_ssgManifest.js
@@ -1,0 +1,1 @@
+self.__SSG_MANIFEST=new Set(["\u002F[slug]"]);self.__SSG_MANIFEST_CB&&self.__SSG_MANIFEST_CB()